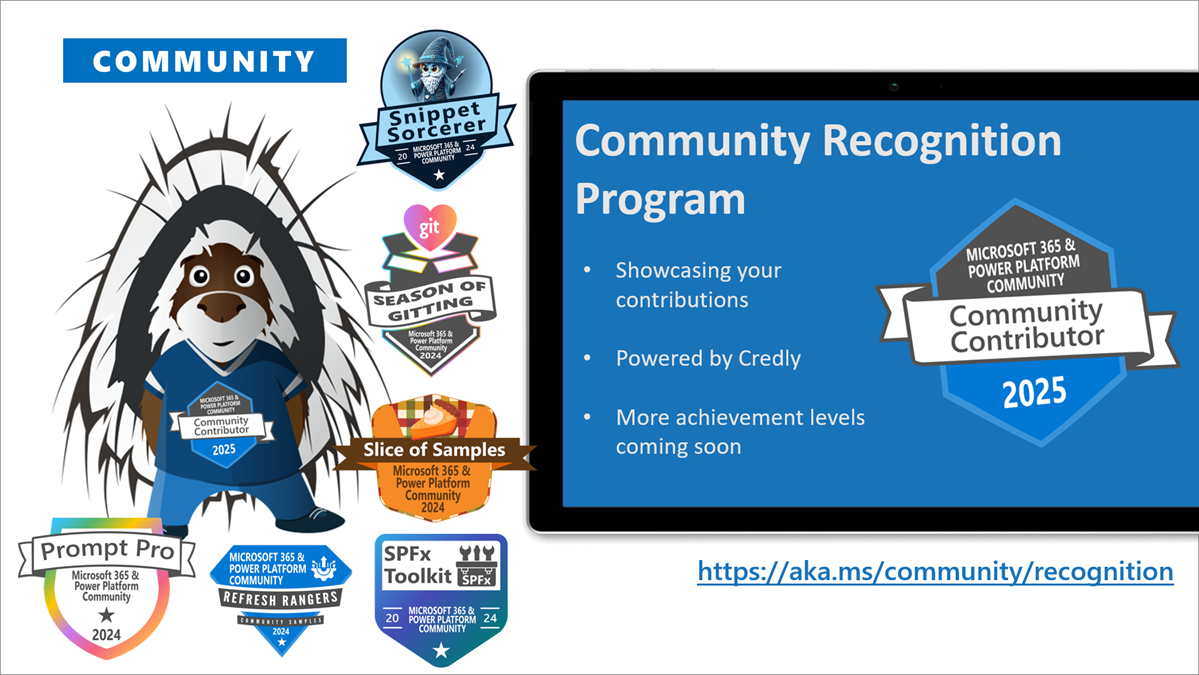
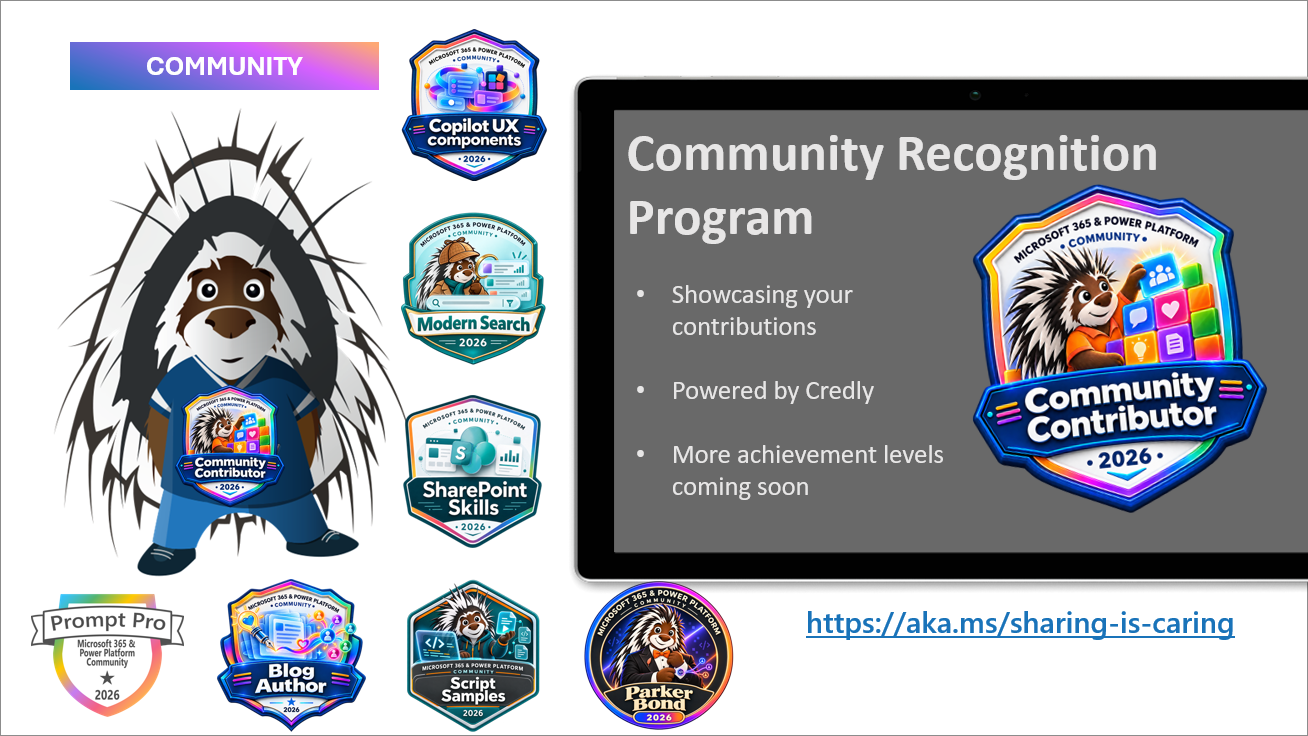
Refresh October weekly agendas and community content (#2397)
Update the 26 October agenda with calls-first navigation, verified videos and recordings, blog posts, and the full CommunityDays event listing. Refresh recognition artwork and archive earlier weekly agendas.

diff --git a/content/weekly-agenda/26-10-26/index.md b/content/weekly-agenda/26-10-26/index.md
@@ -1,0 +1,210 @@
+---
+title: Weekly Agenda - 26th of October week
+date: 2026-10-23T02:00:00.000Z
+author: Vesa Juvonen
+githubname: VesaJuvonen
+categories:
+  - weekly agenda
+images:
+  - images/weeklyagenda43.PNG
+tags: []
+type: trending
+videos: null
+draft: false
+---
+
+<!--
+Weekly refresh model: upcoming calls, full-call recordings, videos, blog posts, events, recognition.
+Use the reporting window's publication dates, not the dates of the calls featured in demo clips.
+Check Videos and Live on all three linked channels; exclude Shorts and scheduled broadcasts.
+List full community calls only under recordings. Use presenter profile links from descriptions when available.
+Refresh both linked blog feeds and every event in the CommunityDays upcoming listing, including virtualized rows.
+Use the event site's displayed dates, not raw UTC end dates; confirm call dates, time zones and lineups each week.
+-->
+
+Join the Microsoft 365, Copilot and Power Platform community for live demos, product updates and questions with presenters. Everyone is welcome, whether you build with no code, low code or code.
+
+**Week of 26 October 2026.** New videos, recordings and blog posts cover **16-23 October 2026**. Sources were checked on 23 October.
+
+[Community calls](#community-calls-this-week) | [Recordings](#latest-community-call-recordings) | [New videos](#new-videos) | [Blog posts](#new-blog-posts) | [Events](#upcoming-events)
+
+## Community calls this week
+
+Download a [recurring community call invite](https://aka.ms/community/calls) and join the conversation. Want to share something you built or learned? [Volunteer for a demo spot](https://aka.ms/community/request/demo).
+
+### Copilot, Microsoft 365 & Power Platform product updates call - 27 October
+
+* **Tuesday, 27 October 2026, 8:00 AM PT / 3:00 PM UTC**
+* [Join the call](https://aka.ms/m365-dev-call-join) | [Recurring invite](https://aka.ms/community/ms-speakers-call-invite) | [Recordings](https://www.youtube.com/playlist?list=PLR9nK3mnD-OUQOW86tT5dkCRQAVGY7DlH)
+
+Latest news from Microsoft on Copilot, Microsoft 365 and Power Platform, followed by these demos:
+
+* [Joe Komban](https://www.linkedin.com/in/kjoefrancis/) - Copilot in SharePoint: Using Custom Plugins for Enterprise AI
+* [Rabia Williams](https://www.linkedin.com/in/rabiawilliams/) - Introduction on Copilot prompt sample gallery
+* [Paolo Pialorsi](https://www.linkedin.com/in/paolopialorsi/) - Understanding Copilot Cowork extensibility
+
+### Copilot, Microsoft 365 & Power Platform community call - 29 October
+
+* **Thursday, 29 October 2026, 7:00 AM PT / 2:00 PM UTC**
+* [Join the call](https://aka.ms/spdev-sig-call-join) | [Recurring invite](https://aka.ms/community/m365-powerplat-call-invite) | [Recordings](https://www.youtube.com/playlist?list=PLR9nK3mnD-OURfm5Ypu-wK52cxBv_gXCA)
+
+Community demos this week:
+
+* [Ranjith D](https://www.linkedin.com/in/ranjith-d-analyst/) - Build Power Automate Flows and Power Apps from Copilot Studio - Just by Asking
+* [Marc André Schröder-Zhou](https://www.linkedin.com/in/dev-schroeder/) – Designing Adaptive Cards with AI support in SharePoint
+* [David Warner](https://www.linkedin.com/in/davidwarnerii/) - Using Copilot Notebooks - Instant Agentic Experiences & More
+
+---
+
+## Latest community call recordings
+
+All four full community-call recordings published on [Microsoft Community Learning](https://www.youtube.com/@MicrosoftCommunityLearning/videos) during 16-23 October are listed here. Dates below are publication dates.
+
+* [Copilot, Microsoft 365 & Power Platform community call – 22nd of October, 2026](https://www.youtube.com/watch?v=ahUDb2a5Fr0) - published 22 October.
+    * PnP PowerShell MCP Server and a negotiation lab built with a Copilot UX component, with [Nishkalank Bezawada](https://www.linkedin.com/in/nishkalankbezawada/) and [Nello d'Andrea](https://www.linkedin.com/in/nello-d-andrea/).
+* [Microsoft Power Platform community call – October 2026](https://www.youtube.com/watch?v=BdSAUuNwEBo) - published 21 October.
+    * Power Platform ToolBox, getting started with GitHub and live app building with generative pages, with [Danish Naglekar](https://www.linkedin.com/in/danish-naglekar/), [Ian Tweedie](https://www.linkedin.com/in/iantweedie/) and [Keith Atherton](https://www.linkedin.com/in/keith-atherton/).
+* [Copilot, Microsoft 365 & Power Platform weekly call – 20th of October, 2026](https://www.youtube.com/watch?v=08fYETe5ybo) - published 20 October.
+    * Copilot UX component implementation and personal skills across SharePoint, with [Vesa Juvonen](https://www.linkedin.com/in/vesajuvonen/) and [Patrick Rodgers](https://www.linkedin.com/in/patrick-rodgers-b6a05610/).
+* [Office add-ins community call - October 2026](https://www.youtube.com/watch?v=lhIj3kE0-Xk) - published 16 October.
+    * OfficeJS quality updates and the move to the weekly product updates call, with [Akshay Dixit](https://www.linkedin.com/in/dixitakshay/) and [Vesa Juvonen](https://www.linkedin.com/in/vesajuvonen/).
+
+<!-- The Office add-ins upload's title says October 2026, but its description refers to July 8. Retain the published title and upload date without inferring a meeting date. -->
+
+---
+
+## New videos
+
+Published 16-23 October across all three channels, newest first within each channel. Shorts and scheduled livestreams are excluded. Full community calls appear only in the recordings section above. Presenter profiles are linked where available.
+
+### Microsoft Community Learning
+
+[Subscribe to Microsoft Community Learning](https://www.youtube.com/@MicrosoftCommunityLearning/videos)
+
+* [Latest updates on SharePoint Embedded - What's new](https://www.youtube.com/watch?v=mBqz4odpolU) by [Steve Pucelik](https://www.linkedin.com/in/stevepucelik/) - 23 October
+* [Creating rich and interactive content with HTML pages in SharePoint](https://www.youtube.com/watch?v=F0uWhleW6x8) by [Nicole Woon](https://www.linkedin.com/in/niwoon/) and [Vesa Juvonen](https://www.linkedin.com/in/vesajuvonen/) - 22 October
+* [Creating a secure document handoff solution with SPFx and SharePoint Embedded](https://www.youtube.com/watch?v=xPZ9zzCIylw) by [Albert-Jan Schot](https://www.linkedin.com/in/albertjanschot/) and [Robert Jaakke](https://www.linkedin.com/in/jaakke/) - 22 October
+* [Building Copilot Studio Agents with GitHub Copilot or Claude Code](https://www.youtube.com/watch?v=4x1dDDLyJRU) by [Wario Wario](https://www.linkedin.com/in/wariowario/) - 21 October
+* [Not a card. A complete app in Microsoft 365 Copilot | Copilot UX components](https://www.youtube.com/watch?v=QPqS2P3vLC4) - 20 October
+* [OneDrive + Copilot event — Your file system and photo solution for the new era](https://www.youtube.com/watch?v=Pfby_MQtZxw) - 20 October
+* [OneDrive + Copilot Event 2026 | Full Replay and Product Demos](https://www.youtube.com/watch?v=eNmHxbJvImQ) with Karuana Gatimu - 20 October
+* [What’s New in OneDrive: Smarter Files, Sharing, and Security | OneDrive + Copilot event](https://www.youtube.com/watch?v=njaXqV33HSI) by Dorine Rassaian and Stephen Rice - 20 October
+* [Microsoft Photos App Demo: Your PC, OneDrive & iCloud Photos in One Place | OneDrive + Copilot](https://www.youtube.com/watch?v=9OzQUXEF2hE) by Carter Green - 20 October
+* [Your OneDrive Files Can Do WHAT? See Copilot in Action | OneDrive + Copilot](https://www.youtube.com/watch?v=bg9Qo_OVn0o) by [Joe Komban](https://www.linkedin.com/in/kjoefrancis/) - 20 October
+* [OneDrive CLI Demo: Deep Dive | OneDrive + Copilot](https://www.youtube.com/watch?v=efE263nGAlQ) by Andrey Esipov - 20 October
+* [From Files to Insights: What Copilot Can Do in OneDrive | OneDrive + Copilot Event](https://www.youtube.com/watch?v=pUnHO6wTSpY) by Adam Harmetz - 20 October
+* [Relive your favorite memories with photos in OneDrive | OneDrive + Copilot Event](https://www.youtube.com/watch?v=OnvTyxxOk7s) by Lisa Miao - 20 October
+* [HTML & Markdown Demo: Deep Dive | OneDrive + Copilot](https://www.youtube.com/watch?v=kSniBfdsKvw) by Dorine Rassaian - 20 October
+* [Building agents with the GitHub Copilot Harness with Agent Academy](https://www.youtube.com/watch?v=M15R6ZvgTQ0) by [April Dunnam](https://www.linkedin.com/in/aprildunnam/) - 20 October
+* [Announcing your PPCC and Ignite plan | Mondays at Microsoft (Episode 93)](https://www.youtube.com/watch?v=5yFBiJ2_aZg) with Heather Cook, Jonathan Jones and April Dunnam - 19 October
+* [Building Copilot UX components - My Day scenario](https://www.youtube.com/watch?v=nPU_YKAQejk) by [Vesa Juvonen](https://www.linkedin.com/in/vesajuvonen/) - 19 October
+* [Build Copilot search functionality in SharePoint using an SPFx extension](https://www.youtube.com/watch?v=7Fd1GdJ_08s) by [Mohammed Amer](https://www.linkedin.com/in/mohammad3mer/) - 18 October
+* [Introducing the AI Assistant in SP Editor](https://www.youtube.com/watch?v=g8YDDu9-uo8) by [Tomi Tavela](https://www.linkedin.com/in/tomitavela/) - 17 October
+* [Join Karuana Gatimu for the OneDrive + Copilot Digital Event | October 20, 2026](https://www.youtube.com/watch?v=X6t32x812Os) - 16 October
+* [One-Click SharePoint Site Provisioning with Sprocket 365](https://www.youtube.com/watch?v=nM4xHqB0ZSM) by [Joseph Jang](https://linkedin.com/in/josephjang) - 16 October
+
+### Power Platform
+
+[Subscribe to Power Platform](https://www.youtube.com/@mspowerplatform/videos)
+
+* [LIVE from the Community Lounge at PPCC 2026!](https://www.youtube.com/watch?v=D2Oj5Cr9MOU) with Tatiana and Vandana - 22 October
+* [Cowork, Code, and Copilot Studio on one managed runtime | Copilot Studio Updates | October 2026](https://www.youtube.com/watch?v=r_C1dsjA6Dc) by Ryan Cunningham - 20 October
+
+### Microsoft 365 Developer
+
+[Subscribe to Microsoft 365 Developer](https://www.youtube.com/@Microsoft365Developer/videos)
+
+* [Work IQ: MCP Retrieve Tool](https://www.youtube.com/watch?v=mwl4fev1hDI) by [Heather Stoffels](https://www.linkedin.com/in/heather-stoffels/) and [Paolo Pialorsi](https://www.linkedin.com/in/paolopialorsi/) - 20 October
+
+## New blog posts
+
+Posts published 16-23 October on both blog platforms.
+
+### Microsoft 365 Developer Blog
+
+* [Develop enterprise-grade apps with SharePoint Embedded](https://devblogs.microsoft.com/microsoft365dev/develop-enterprise-grade-apps-with-sharepoint-embedded/) by Steve Pucelik - 22 October. Guidance on scaling, reliability, governance and Office co-authoring.
+* [Work IQ: the new retrieve tool](https://devblogs.microsoft.com/microsoft365dev/work-iq-retrieve-october-2026/) by [Paolo Pialorsi](https://www.linkedin.com/in/paolopialorsi/) - 20 October. Ground agents in workplace content with the new MCP retrieval tool.
+
+### Microsoft 365 and Power Platform Community Blog
+
+* [PnP.Core.Provisioning is out!](https://pnp.github.io/blog/post/pnp-framework-roadmap-update-2/) by Adam Wójcik - 17 October. The provisioning engine moves from PnP Framework to PnP Core SDK as a preview.
+* [Weekly Agenda - 19th of October week](https://pnp.github.io/blog/weekly-agenda/26-10-19/) by [Vesa Juvonen](https://github.com/VesaJuvonen/) - 16 October. The previous week's calls and community resources.
+
+---
+
+## Upcoming events
+
+The complete [CommunityDays upcoming event listing](https://www.communitydays.org/events?when=upcoming), checked on 23 October: **41 events**, grouped by month. The site still includes today's Austrian event, marked "just ended"; it is retained for completeness. Follow each event link for registration and the latest details.
+
+### October 2026
+
+* [Austrian Power Platform Enthusiasts Community Day 2026](https://www.communitydays.org/event/2026-10-23/austrian-power-platform-enthusiasts-community-day-2026) - Vienna, Austria - 23 October 2026
+* [AI Maitri Global Summit 2026](https://www.communitydays.org/event/2026-10-24/ai-maitri-global-summit-2026) - Virtual, United Kingdom - 24-25 October 2026
+* [CollabDays Belgium 2026](https://www.communitydays.org/event/2026-10-24/collabdays-belgium-2026) - Affligem, Flemish Region, Belgium - 24 October 2026
+* [Power Platform Community Conference](https://www.communitydays.org/event/2026-10-27/power-platform-community-conference) - Las Vegas, NV, United States - 27-30 October 2026
+* [Microsoft 365 Copilot Use Cases: Empowering the Modern Workforce](https://www.communitydays.org/event/2026-10-27/microsoft-365-copilot-use-cases-empowering-the-modern-workforce) - Virtual, United States - 27 October 2026
+* [aMP Day Rennes 2026](https://www.communitydays.org/event/2026-10-28/amp-day-rennes-2026) - Cesson-Sévigné, Bretagne, France - 28 October 2026
+
+### November 2026
+
+* [TechCon 365 Dallas](https://www.communitydays.org/event/2026-11-02/techcon-365-dallas) - Irving, TX, United States - 2-6 November 2026
+* [Microsoft 365 Live](https://www.communitydays.org/event/2026-11-04/microsoft-365-live) - Virtual, Colombia - 4-7 November 2026
+* [Azure and Github Community Day](https://www.communitydays.org/event/2026-11-10/azure-and-github-community-day) - Dublin, Ireland - 10 November 2026
+* [Update Conference Prague 2026](https://www.communitydays.org/event/2026-11-12/update-conference-prague-2026) - Hybrid, Prague, Czechia - 12-13 November 2026
+* [AI Community Conference - Toronto 2026](https://www.communitydays.org/event/2026-11-13/ai-community-conference-toronto-2026) - Toronto, Ontario, Canada - 13 November 2026
+* [AI Community Conference - Boston 2026](https://www.communitydays.org/event/2026-11-13/ai-community-conference-boston-2026) - Cambridge, MA, United States - 13 November 2026
+* [MN M365 17TH BI-ANNUAL FALL WORKSHOP day](https://www.communitydays.org/event/2026-11-13/mn-m365-17th-bi-annual-fall-workshop-day) - Edina, MN, United States - 13 November 2026
+* [AI Virtual Days 2026](https://www.communitydays.org/event/2026-11-13/ai-virtual-days-2026) - Virtual, Spain - 13-14 November 2026
+* [M365 Community Days Atlanta '26](https://www.communitydays.org/event/2026-11-14/m365-community-days-atlanta-26) - Morrow, GA, United States - 14 November 2026
+* [Microsoft Ignite 2026 NYC Community Day](https://www.communitydays.org/event/2026-11-16/microsoft-ignite-2026-nyc-community-day) - New York, NY, United States - 16 November 2026
+* [Community Days 2026 - Guadalajara](https://www.communitydays.org/event/2026-11-17/community-days-2026-guadalajara) - Guadalajara, Jalisco, Mexico - 17 November 2026
+* [aMP Day Lyon 2026](https://www.communitydays.org/event/2026-11-17/amp-day-lyon-2026) - Lyon, Auvergne-Rhône-Alpe, France - 17 November 2026
+* [Community Summit Roadshow Denver](https://www.communitydays.org/event/2026-11-17/community-summit-roadshow-denver) - Denver, CO, United States - 17 November 2026
+* [M365 Community Days DC - Microsoft Ignite 2026 Watch Party + Unconference](https://www.communitydays.org/event/2026-11-17/m365-community-days-dc-microsoft-ignite-2026-watch-party-plus-unconference) - Arlington, Virginia, United States - 17 November 2026
+* [AICD - Mumbai](https://www.communitydays.org/event/2026-11-21/aicd-mumbai) - Mumbai, Maharashtra, India - 21 November 2026
+* [Boston Code Camp 41](https://www.communitydays.org/event/2026-11-21/boston-code-camp-41) - Burlington, MA, United States - 21 November 2026
+* [CollabDays Oslo 2026](https://www.communitydays.org/event/2026-11-23/collabdays-oslo-2026) - Oslo, Norway - 23 November 2026
+* [Techbayanihan 2026 Naga City](https://www.communitydays.org/event/2026-11-23/techbayanihan-2026-naga-city) - Naga City, Camarines Sur, Philippines - 23 November 2026
+* [.NET Africa Conference 2026](https://www.communitydays.org/event/2026-11-24/dotnet-africa-conference-2026) - Sandton, Gauteng, South Africa - 24-26 November 2026
+* [Techbayanihan 2026 Parañaque City](https://www.communitydays.org/event/2026-11-25/techbayanihan-2026-paranaque-city) - Parañaque, Metro Manila, Philippines - 25-26 November 2026
+* [Workplace Ninjas India](https://www.communitydays.org/event/2026-11-27/workplace-ninjas-india) - New Delhi, Delhi, India - 27-28 November 2026
+* [Techbayanihan 2026 Baguio City](https://www.communitydays.org/event/2026-11-28/techbayanihan-2026-baguio-city) - Baguio City, Benguet, Philippines - 28 November 2026
+* [ESPC26](https://www.communitydays.org/event/2026-11-30/espc26) - Amsterdam, North Holland, Netherlands - 30 November-3 December 2026
+
+### December 2026
+
+* [Community Summit Roadshow Ft. Lauderdale](https://www.communitydays.org/event/2026-12-01/community-summit-roadshow-ft-lauderdale) - Fort Lauderdale, FL, United States - 1 December 2026
+* [Convergence 2026](https://www.communitydays.org/event/2026-12-08/convergence-2026) - Miami Beach, FL, United States - 8-11 December 2026
+
+### January 2027
+
+* [M365 Con 27](https://www.communitydays.org/event/2027-01-11/m365-con-27) - Virtual, Germany - 11-22 January 2027
+* [Workplace Ninjas US 2027](https://www.communitydays.org/event/2027-01-11/workplace-ninjas-us-2027) - Scottsdale, AZ, United States - 11-13 January 2027
+* [M365 Community Days Montréal #4-2026 – Sans gouvernance, pas d’IA](https://www.communitydays.org/event/2027-01-27/m365-community-days-montreal-hash4-2026-sans-gouvernance-pas-dia) - Montreal, QC, Canada - 27 January 2027
+
+### February 2027
+
+* [Cloud Tech Tallinn 2027](https://www.communitydays.org/event/2027-02-04/cloud-tech-tallinn-2027) - Tallinn, Harjumaa, Estonia - 4-5 February 2027
+* [Knoxville Microsoft Community Days](https://www.communitydays.org/event/2027-02-25/knoxville-microsoft-community-days) - Friendsville, TN, United States - 25-26 February 2027
+
+### March 2027
+
+* [FABCON & SQLCON 2027](https://www.communitydays.org/event/2027-03-08/fabcon-and-sqlcon-2027) - Atlanta, GA, United States - 8-12 March 2027
+* [AI Agent and Copilot Summit NA 2027](https://www.communitydays.org/event/2027-03-30/ai-agent-and-copilot-summit-na-2027) - Chula Vista, CA, United States - 30 March-1 April 2027
+
+### April 2027
+
+* [M365 Community Days DC 2027](https://www.communitydays.org/event/2027-04-08/m365-community-days-dc-2027) - Arlington, VA, United States - 8-9 April 2027
+* [Exchange & Security Summit 2027](https://www.communitydays.org/event/2027-04-13/exchange-and-security-summit-2027) - Frankfurt am Main, Hessen, Germany - 13-14 April 2027
+
+### May 2027
+
+* [Microsoft 365 Community Conference](https://www.communitydays.org/event/2027-05-04/microsoft-365-community-conference) - Las Vegas, NV, United States - 4-6 May 2027
+
+---
+
+## Recognition
+
+Contributed to the community? Opt in to the [community recognition program](https://pnp.github.io/recognitionprogram/) and earn badges for your contributions.
+
+![Community Recognition](../images/community-recognition-2025.png)

diff --git a/content/weekly-agenda/26-10-19/index.md b/content/weekly-agenda/26-10-19/index.md
@@ -8,7 +8,7 @@ categories:
 images:
   - images/weeklyagenda42.PNG
 tags: []
-type: trending
+type: regular
 videos: null
 draft: false
 ---
@@ -118,7 +118,7 @@ Here are the last week's community call recordings. You can download recurrent i
 
 You already contributed? Great, we want to celebrate and recognize you! Opt in for our [community recognition program](https://pnp.github.io/recognitionprogram/) and earn badges from our various initiatives! 
 
-![Community Recognition](../images/community-recognition-2025.png)
+![Community Recognition](../images/community-recognition-2026.png)
 
 ---
 

diff --git a/content/weekly-agenda/26-10-12/index.md b/content/weekly-agenda/26-10-12/index.md
@@ -8,7 +8,7 @@ categories:
 images:
   - images/weeklyagenda41.PNG
 tags: []
-type: trending
+type: regular
 videos: null
 draft: false
 ---
